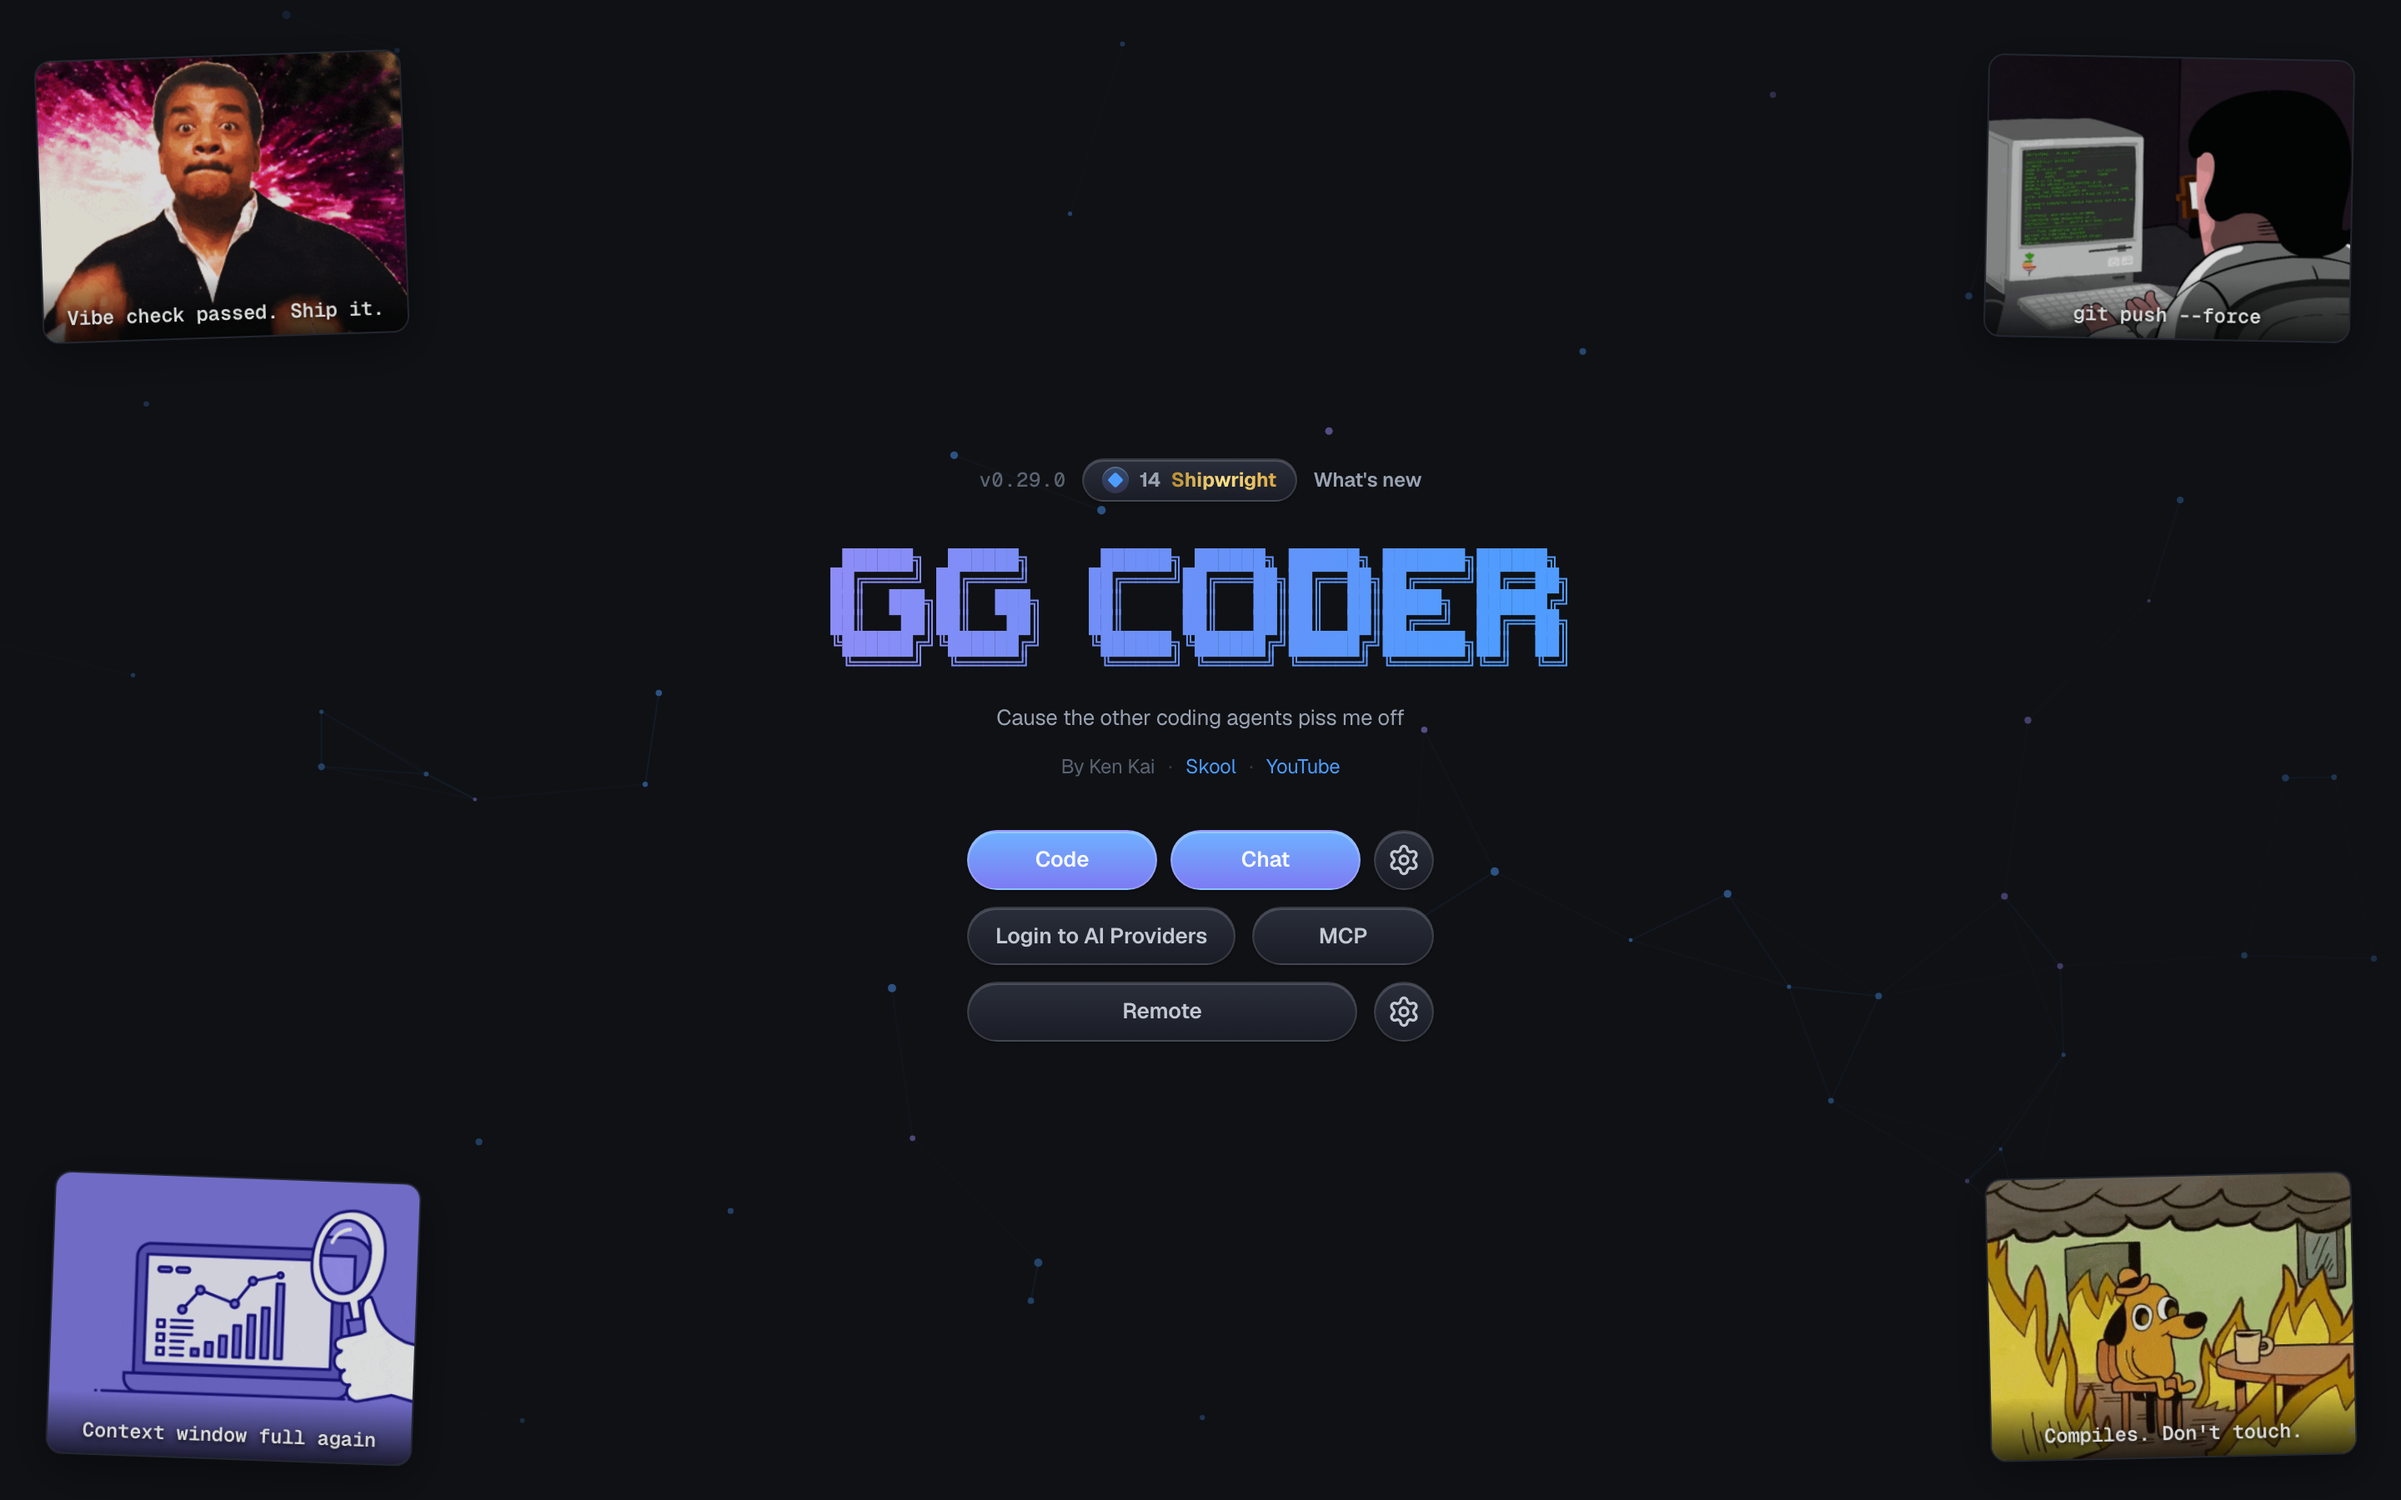
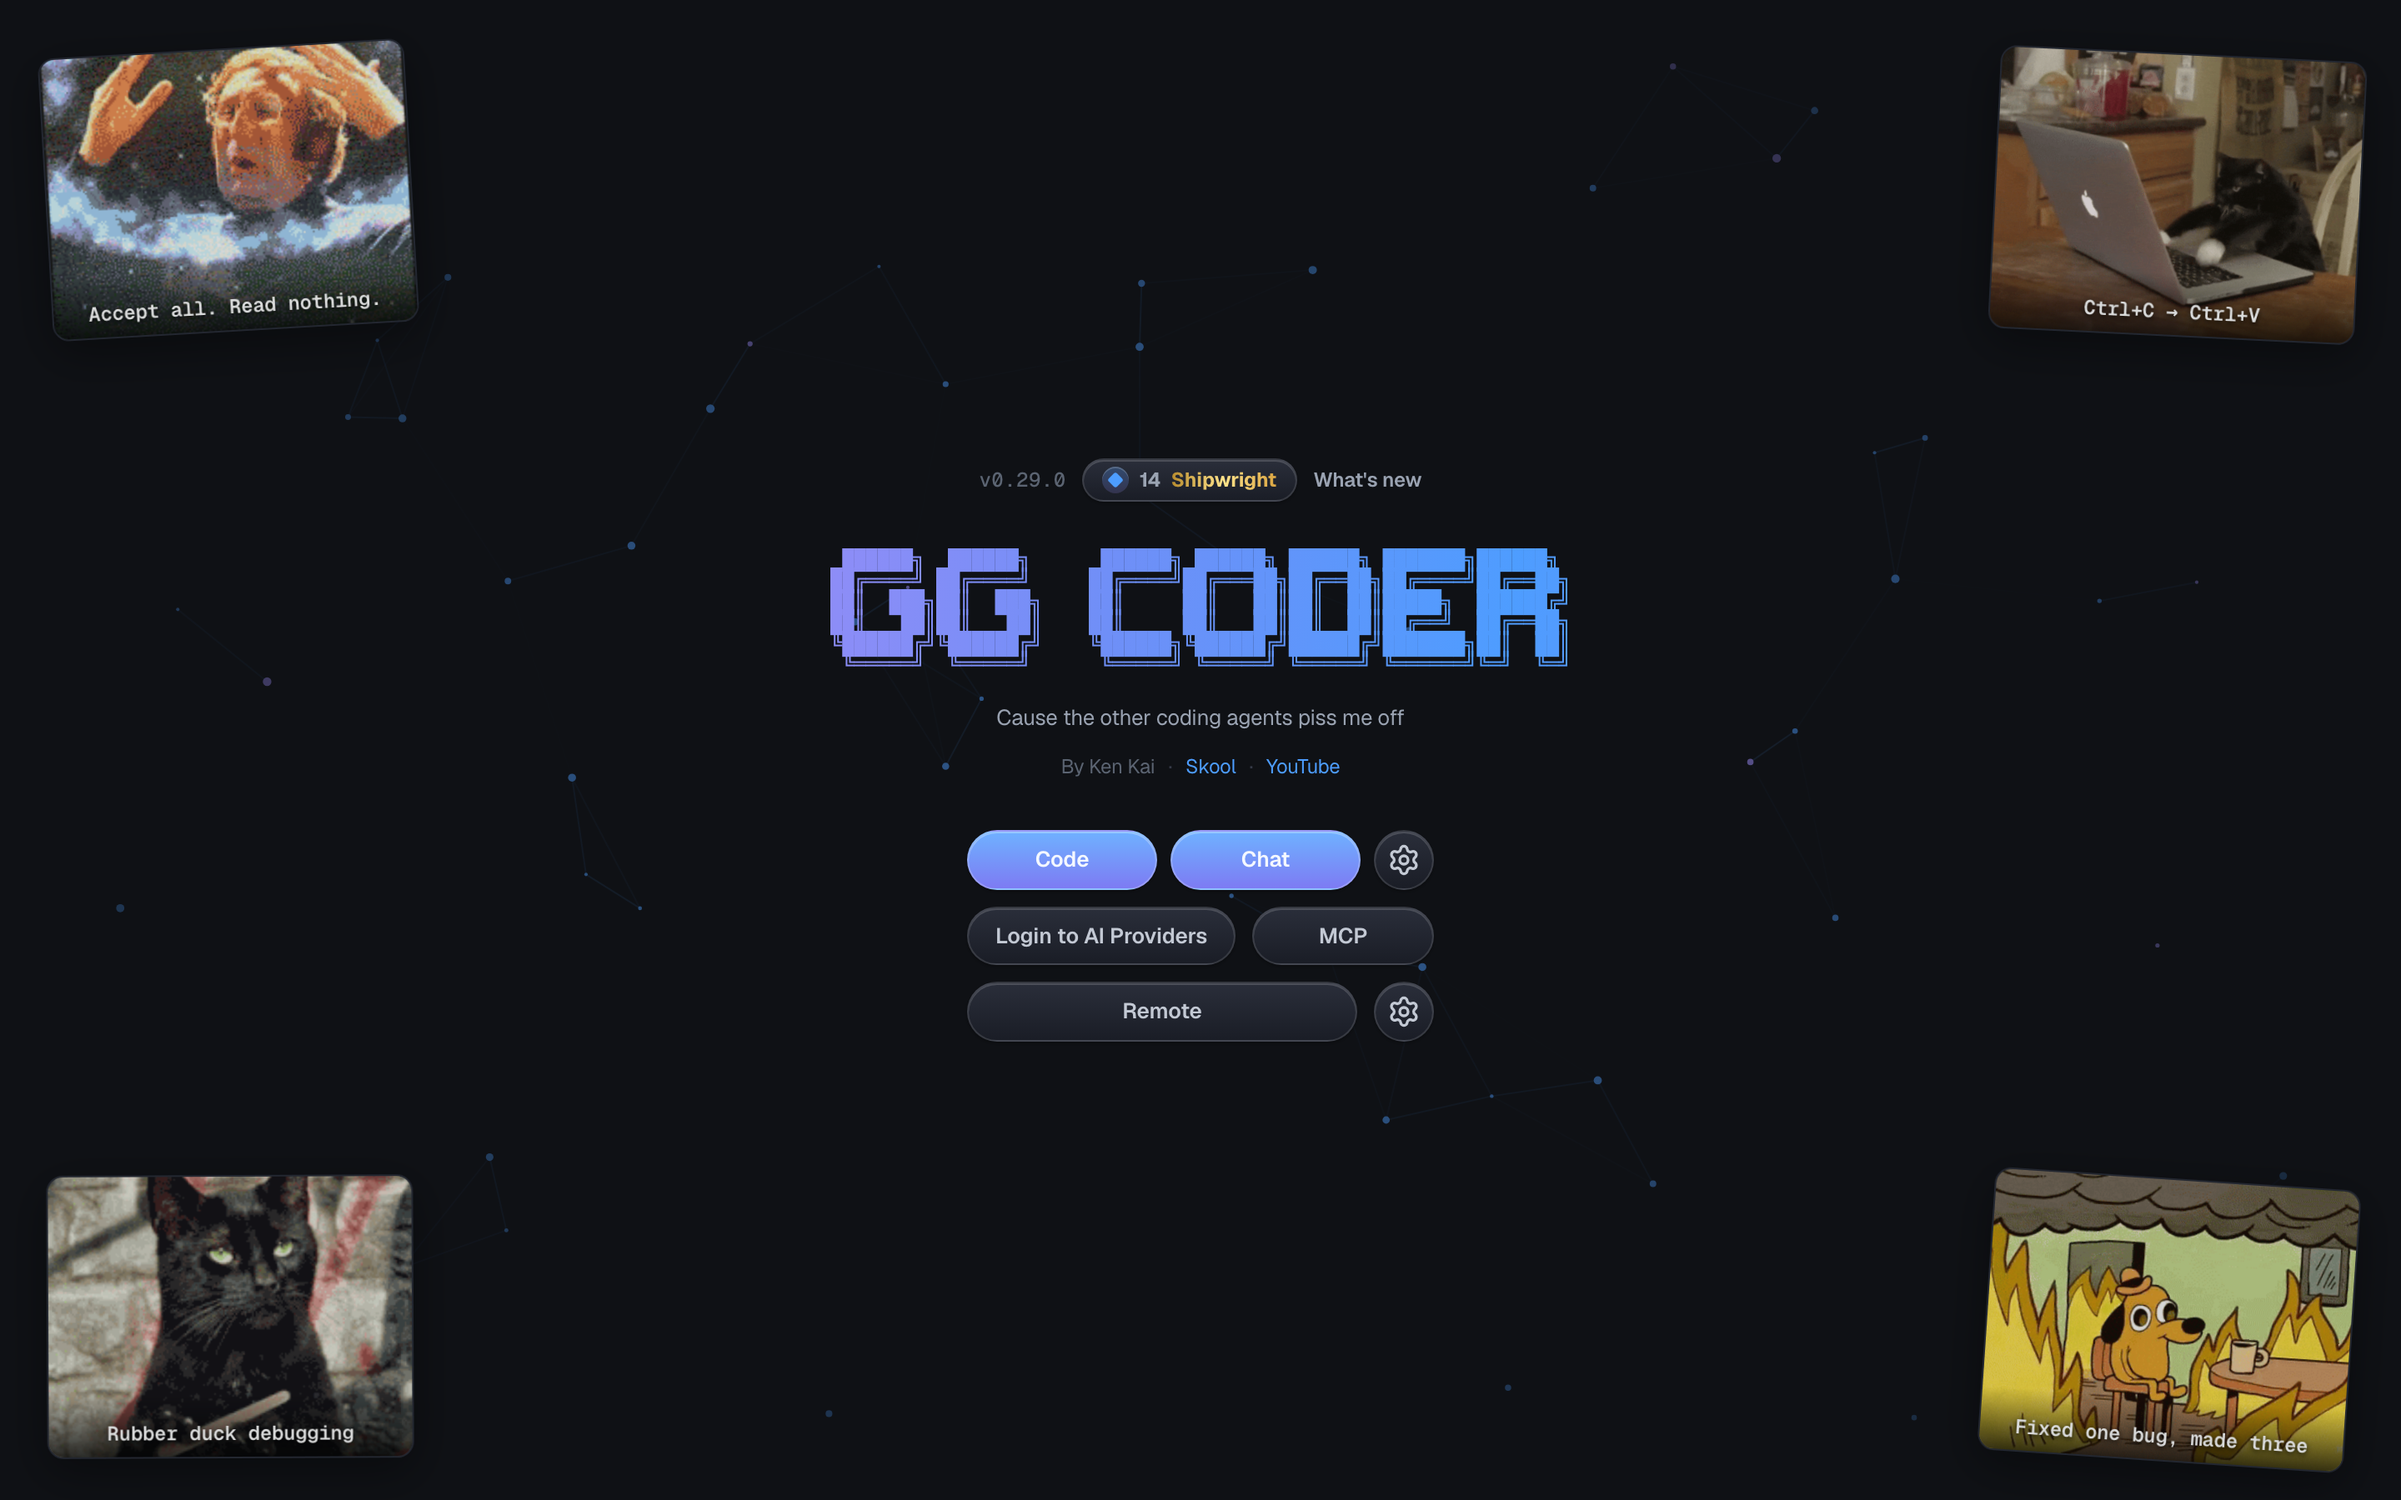
Update README hero to six windows, fix terminal claim, add resource usage
The 'try that in a terminal tab' line was misleading, you can absolutely split a
terminal into panes. Reframed around what's actually different: it's real
software with real OS windows, born from that terminal workflow.

Hero is now six windows across six models instead of four, since nothing caps it
at four. Grid is parameterised so the count can change again.

Added a section on staying light, Rust shell with no bundled browser engine.

diff --git a/README.md b/README.md
@@ -27,19 +27,30 @@ machine.
 
 Signed and notarized on macOS. It updates itself, so you install it once and forget about it.
 
-## Four projects. Four agents. One screen.
+## As many projects as you want, all going at once
 
-This is the whole point. Open GG Coder on your side project in one window, your client's
-Next.js app in another, a Rust thing in a third, a landing page in a fourth. Each window
-runs its **own** agent, its own folder, its own model, its own history. Nothing bleeds
-between them. Tile them 2-up or 4-up and let all four go at once.
+Yeah, you can split a terminal into panes. That's where this workflow came from. The
+difference is this is **actual software** now: real OS windows you can move between
+desktops, tile with one click, full-screen individually, and pick up with your mouse.
+
+Open GG Coder on your side project in one window, your client's Next.js app in another, a
+Rust thing in a third, a landing page in a fourth. Each window runs its **own** agent, its
+own folder, its own model, its own history. Nothing bleeds between them.
 
 <p align="center">
-  <img src="docs/screenshots/00-four-windows.png" alt="Four GG Coder windows tiled 2x2, each on a different project running a different model" width="980">
+  <img src="docs/screenshots/00-many-windows.png" alt="Six GG Coder windows tiled in a grid, each on a different project running a different model" width="980">
 </p>
 
-Four different projects, four different models (Claude, Codex, a local qwen3-coder, Gemini),
-four agents working at the same time. Try that in a terminal tab.
+Six projects, six different models (Claude, Codex, a local qwen3-coder, Gemini, Kimi, GLM),
+all going at the same time. And six isn't the ceiling either. Tile 2, 4, 6, or hit
+auto-arrange and it lays out however many you've got open.
+
+### It stays light
+
+The whole shell is **Rust**. No Electron, no bundled browser engine sitting in RAM per
+window. It uses the renderer your OS already ships, and each window's agent only costs you
+something while it's actually running. Six windows open is a normal Tuesday, not a fan
+event.
 
 <p align="center">
   <img src="docs/screenshots/01-home.png" alt="GG Coder home screen" width="900">
@@ -189,13 +200,13 @@ Everything else is the exact same spine the CLI runs.
 
 ## What do I actually need?
 
-| You want to...                                      | Use                                                                               |
-| --------------------------------------------------- | --------------------------------------------------------------------------------- |
-| Code with a real UI, on every project at once       | **[Download GG Coder](https://github.com/KenKaiii/gg-framework/releases/latest)** |
-| Code in your terminal                               | `npm i -g @kenkaiiii/ggcoder`                                                     |
-| Run a bunch of agents across projects from one chat | `npm i -g @kenkaiiii/gg-boss`                                                     |
-| Build your own agent that calls tools and loops     | `npm i @kenkaiiii/gg-agent`                                                       |
-| Stream from any LLM provider with one API           | `npm i @kenkaiiii/gg-ai`                                                          |
+| You want to...                                           | Use                                                                               |
+| -------------------------------------------------------- | --------------------------------------------------------------------------------- |
+| Code with a real UI, across as many projects as you want | **[Download GG Coder](https://github.com/KenKaiii/gg-framework/releases/latest)** |
+| Code in your terminal                                    | `npm i -g @kenkaiiii/ggcoder`                                                     |
+| Run a bunch of agents across projects from one chat      | `npm i -g @kenkaiiii/gg-boss`                                                     |
+| Build your own agent that calls tools and loops          | `npm i @kenkaiiii/gg-agent`                                                       |
+| Stream from any LLM provider with one API                | `npm i @kenkaiiii/gg-ai`                                                          |
 
 ---
 
@@ -226,7 +237,8 @@ MIT
 ---
 
 <p align="center">
-  <strong>Less bloat. More coding. Every model. Every project. One window each.</strong>
+  <strong>Less bloat. More coding. Every model. Every project. One window each.<br>
+  Rust under the hood, so it stays out of your way.</strong>
 </p>
 
 <p align="center">

diff --git a/gg-app/README.md b/gg-app/README.md
@@ -69,11 +69,11 @@ every screen renders from the fake demo data at the top of that script. No real 
 project paths, chat content, tokens or account names can end up in a committed image. Keep
 it that way when you add a shot, and only grab screens worth showing, not a full tour.
 
-`00-four-windows.png` (the 2x2 hero) is built from four separate browser contexts, one per
-quadrant, each with its own project, model and git state. They're composed into one image
-by a throwaway page of four `<img>` tags so the script keeps its single dependency. The
-tiles get inlined as data URLs, since a `file://` image is blocked on the `about:blank`
-origin `setContent` runs on.
+`00-many-windows.png` (the hero) is built from one browser context per window, each with
+its own project, model and git state, then composed into a grid by a throwaway page of
+`<img>` tags so the script keeps its single dependency. Add or remove entries in
+`quadrants` and set `GRID_COLS` to reshape it. The tiles get inlined as data URLs, since a
+`file://` image is blocked on the `about:blank` origin `setContent` runs on.
 
 Runs that need a live UI state the mock can't click into (Autopilot's toggle is a
 controlled input) set `responses: { agent_state: … }` on the shot instead.
